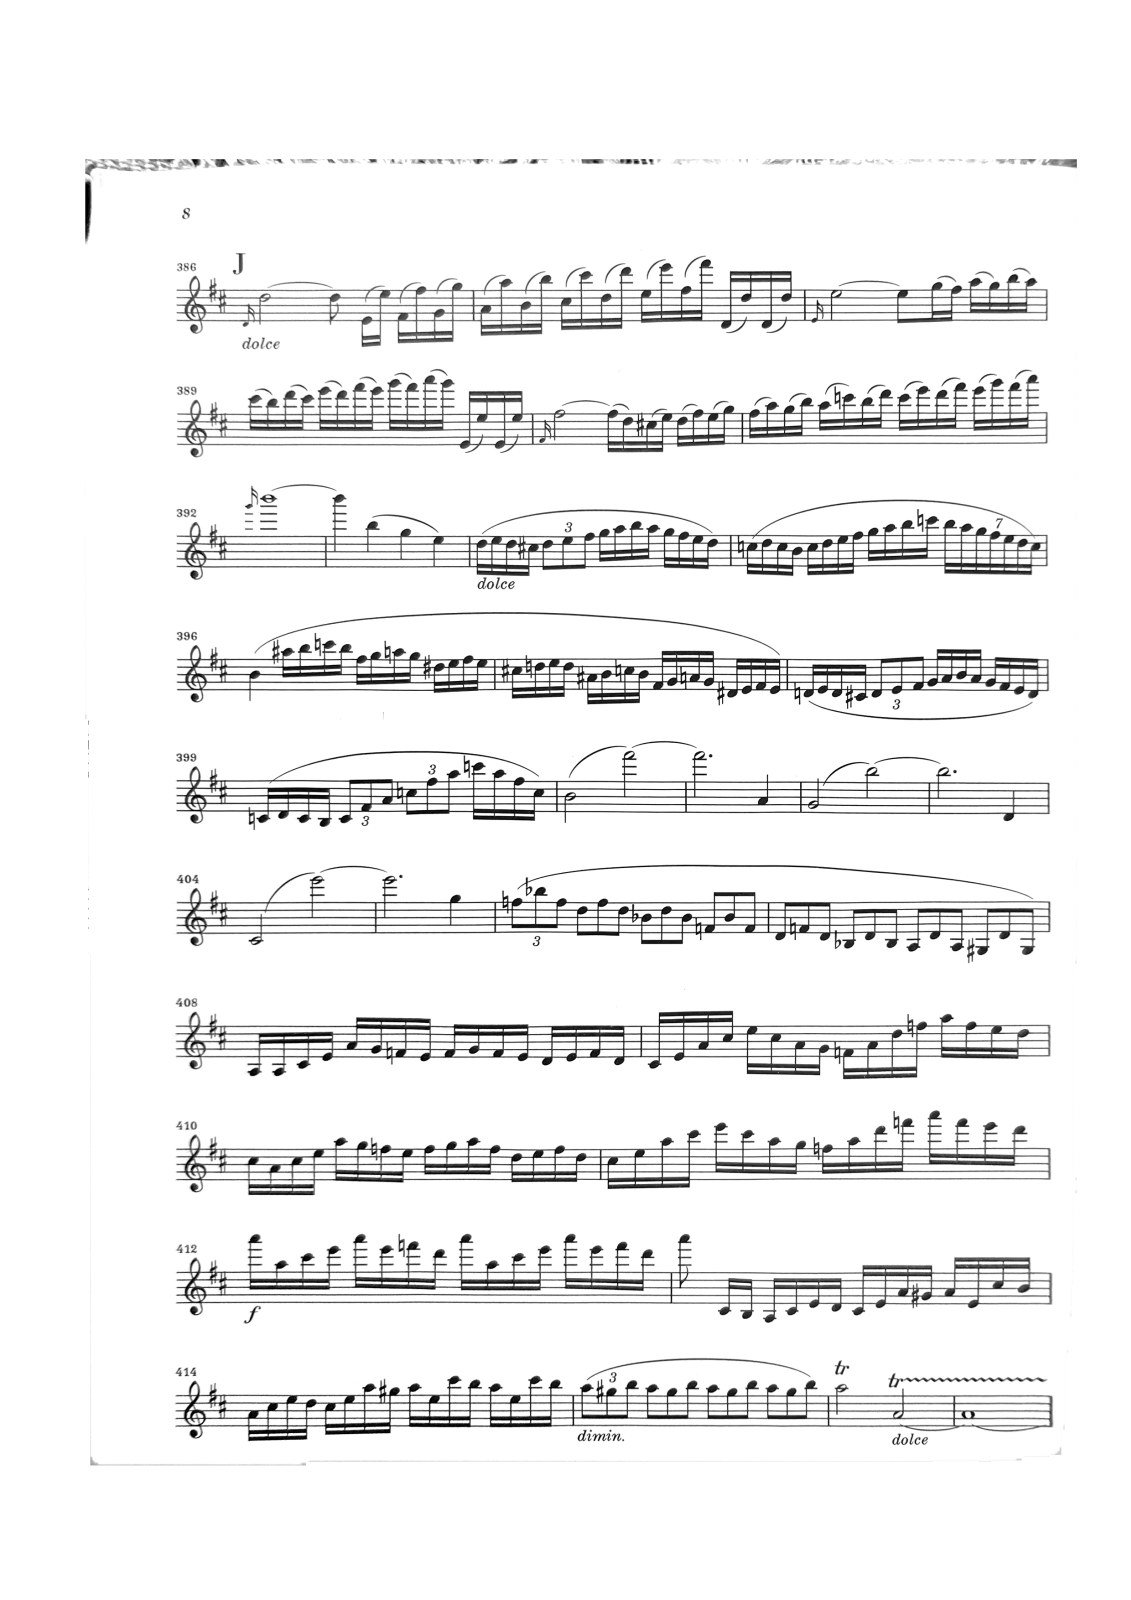
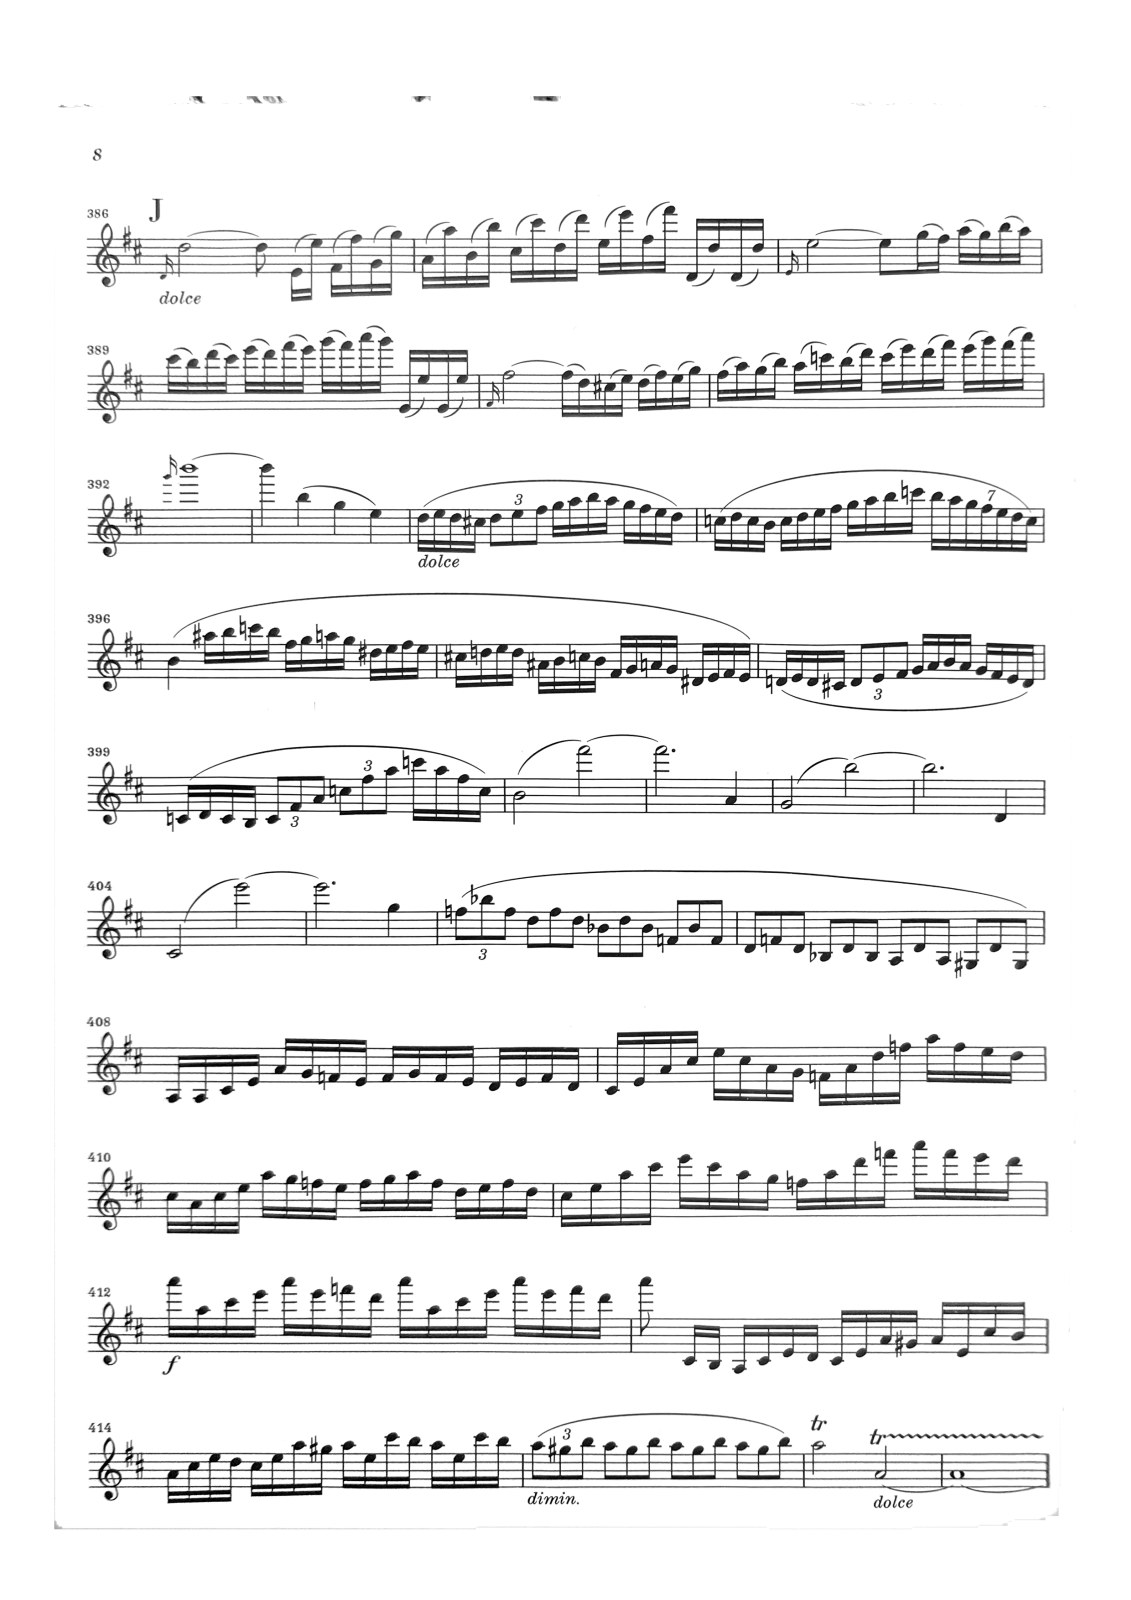
Demo: regenerate panels with main-page output, add IMG_3683
Panels for IMG_3682-3686 rebuilt from dewarp.py --models page
--crop-content with the main-page crop (facing page, bent rim and
background gone). IMG_3683 (fan-shaped curl, straightened by the field
and the sheet-edge term) is shown as well. READMEs updated.

Changed region(s): [[0.0619, 0.0938, 0.9284, 0.9688], [0.9284, 0.0938, 0.9593, 0.125]]

diff --git a/demo/README.md b/demo/README.md
@@ -1,6 +1,6 @@
 # Demo：手持拍摄的乐谱书页
 
-4 张 iPhone 手持拍摄的摊开乐谱书（HEIC，4032 × 3024），书页弯曲、透视倾斜，背景有绒布、花边和对面那页。IMG_3682 是横着拍的（谱表竖直）。IMG_3684–3686 是小提琴 + 钢琴谱，同一页上有两种大小的谱表。
+5 张 iPhone 手持拍摄的摊开乐谱书（HEIC，4032 × 3024），书页弯曲、透视倾斜，背景有绒布、花边和对面那页。IMG_3682 是横着拍的（谱表竖直）。IMG_3683 书页呈扇形卷曲。IMG_3684–3686 是小提琴 + 钢琴谱，同一页上有两种大小的谱表。输出只保留主页面（命令行默认，`--keep-surroundings` 关闭）。
 
 每张图从左到右依次为：
 
@@ -16,11 +16,15 @@
 .venv/bin/python scripts/make_demo.py photos/*.HEIC --results outputs/demo --dest demo
 ```
 
-`--models page` 用 U²-Netp 纸张分割去掉背景对检测的干扰；`--crop-content` 只输出内容框（不加时输出范围会包含背景和对面页，A4 页上的谱面因此明显变小）。展示用图片缩小到长边 1600 像素，并已去掉照片的 EXIF 信息；实际输出与原照片分辨率一致。每张约 12–21 秒（Apple Silicon）。
+`--models page` 用 U²-Netp 纸张分割去掉背景对检测的干扰，并给“只保留主页面”提供纸张范围；`--crop-content` 在曲面阶段就只取内容框，展示图用它（不加时也只保留主页面，但纸边外的零星背景斑点略多）。展示用图片缩小到长边 1600 像素，并已去掉照片的 EXIF 信息；实际输出与原照片分辨率一致。每张约 12–21 秒（Apple Silicon）。
 
 ### IMG_3682：横拍，自动转正
 
 ![IMG_3682](IMG_3682_panel.jpg)
+
+### IMG_3683：扇形卷曲
+
+![IMG_3683](IMG_3683_panel.jpg)
 
 ### IMG_3684：小提琴 + 钢琴
 
@@ -36,9 +40,9 @@
 
 ## 仍有的问题
 
-- **输出范围**：IMG_3686 右侧带着对面页的一部分、底部带着背景；IMG_3684 左侧带着书页叠边。谱面本身已展平，问题在于输出范围没有只裁到主页面。
+- **输出范围**（2026-11-20 起只保留主页面）：对面页、弯曲的纸边和背景已去掉。`--crop-content` 下 IMG_3686 左上角页码“24”在曲面阶段的内容框外，被裁掉一半；默认整页模式保留它。
 - **方向**：只判断 90°（依据检测到的谱表方向），180° 倒置未处理；简谱页不参与方向判断。
-- **扇形卷曲**：同批的另一张照片（未展示）书页呈扇形卷曲（上几行右端上翘、下几行下垂），超出曲面模型（母线平行）的表达能力，只靠残差场拉平，效果略差。
+- **扇形卷曲**：IMG_3683 书页呈扇形卷曲（上几行右端上翘、下几行下垂），超出曲面模型（母线平行）的表达能力，靠残差场和纸边约束拉平；曲面拟合误差仍比其他页大。
 
 ## 2026-11-19 修复：同页多种谱表大小
 

diff --git a/README.md b/README.md
@@ -18,6 +18,10 @@
 
 ![IMG_3682](demo/IMG_3682_panel.jpg)
 
+**IMG_3683**：扇形卷曲（上几行右端上翘、下几行下垂），纸边由残差场拉直
+
+![IMG_3683](demo/IMG_3683_panel.jpg)
+
 **IMG_3684**：小提琴 + 钢琴，同页两种谱表大小
 
 ![IMG_3684](demo/IMG_3684_panel.jpg)
@@ -26,7 +30,7 @@
 
 ![IMG_3685](demo/IMG_3685_panel.jpg)
 
-**IMG_3686**：小提琴 + 钢琴，带对面页
+**IMG_3686**：小提琴 + 钢琴，对面页和背景已去掉，只保留主页面
 
 ![IMG_3686](demo/IMG_3686_panel.jpg)
 
@@ -294,7 +298,7 @@ outputs/  bench/ 几何评测与消融记录    cpms_eval_20261118/ 60 张真实
 
 ### 4. 非柱面卷曲（扇形）
 
-- **问题**：书页靠近书脊处往往同时有两个方向的弯曲，上几行右端上翘、下几行下垂，母线不平行。B 的一般柱面（母线平行）表示不了，残差只能靠 C 拉平，曲面拟合误差 p90 可达约 27 px，效果比其他页差（因此未放进 demo）。
+- **问题**：书页靠近书脊处往往同时有两个方向的弯曲，上几行右端上翘、下几行下垂，母线不平行。B 的一般柱面（母线平行）表示不了，残差只能靠 C 拉平，曲面拟合误差 p90 可达约 27 px（demo 的 IMG_3683）；目前靠 C 和纸边约束（`sheet_w`）把输出拉直，曲面本身仍不对。
 - **做法**：B 中允许母线方向沿页面缓慢变化（锥面 / 分段柱面），或把页面分成上下两块各自拟合再在中间平滑拼接。先在这张照片和 dev 的 severe 档上试，失败就停。
 
 ### 5. 每行谱表的真实端点
